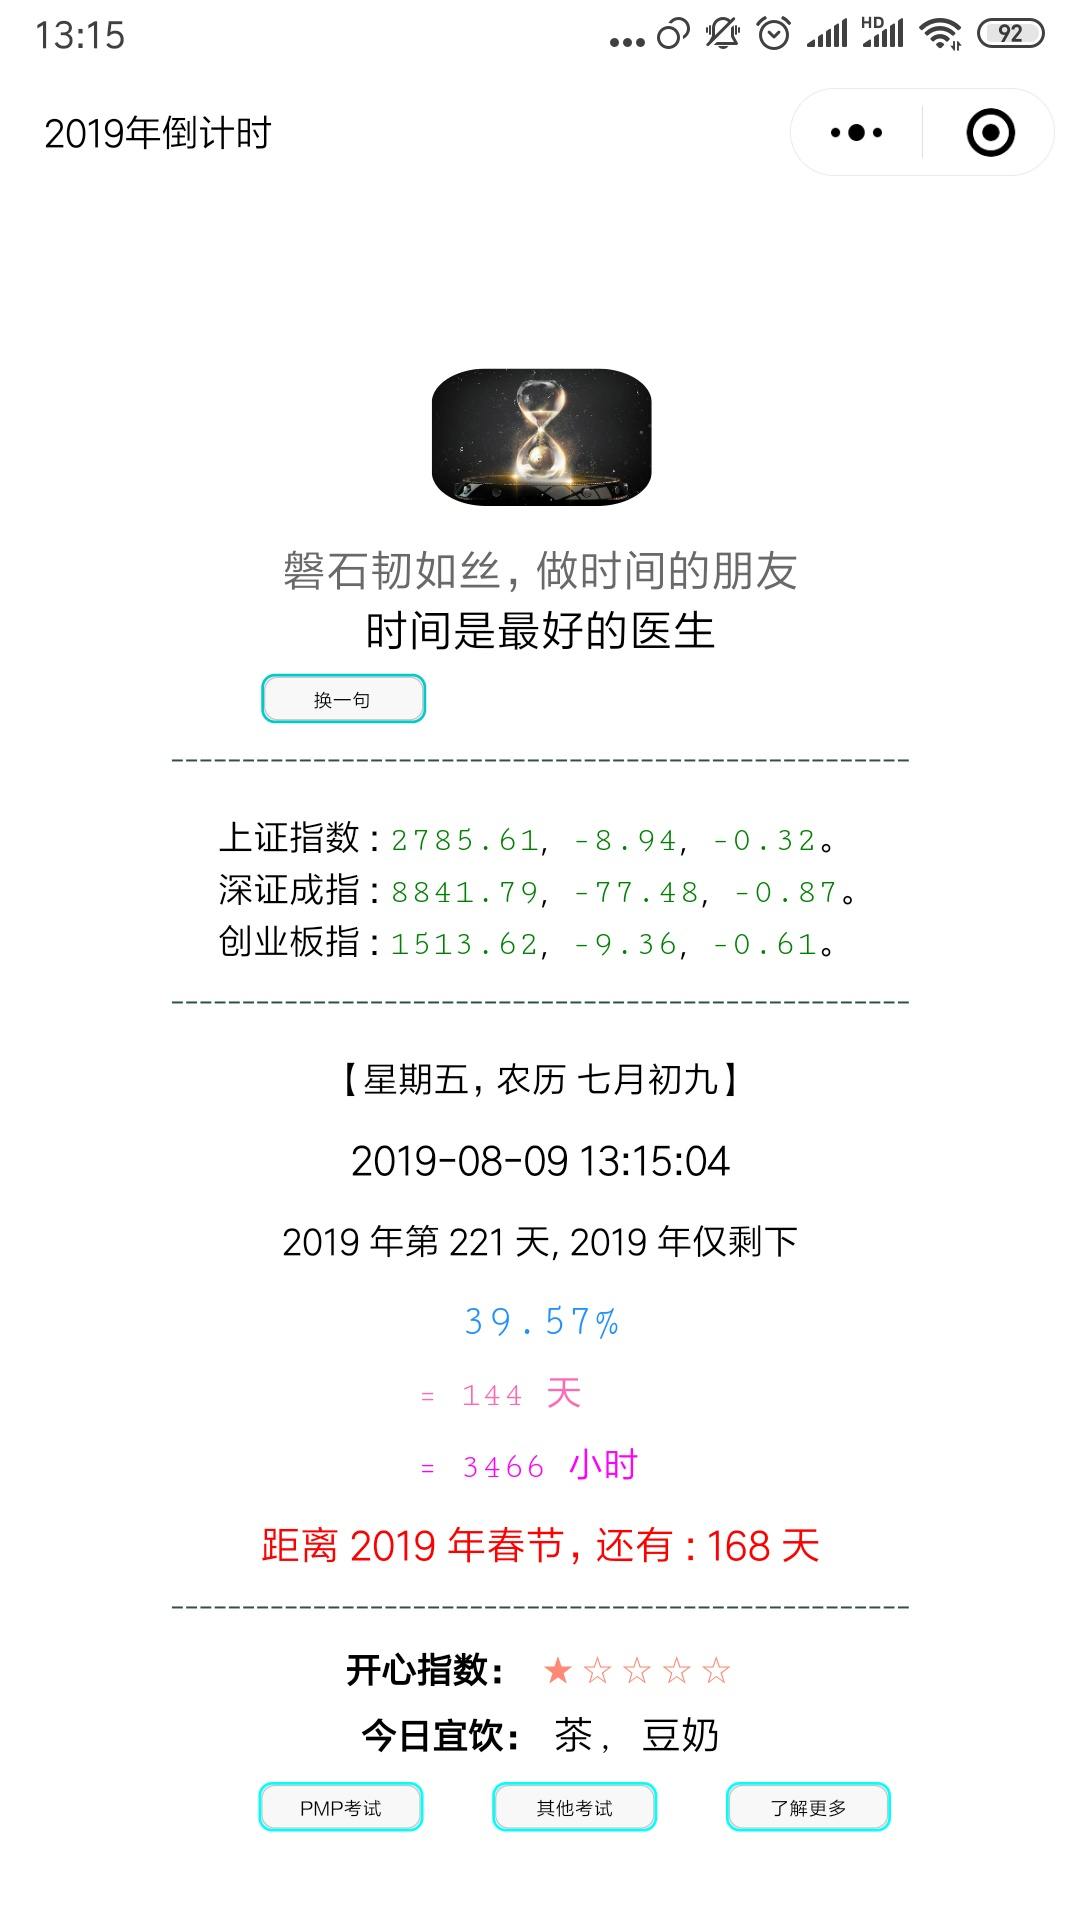
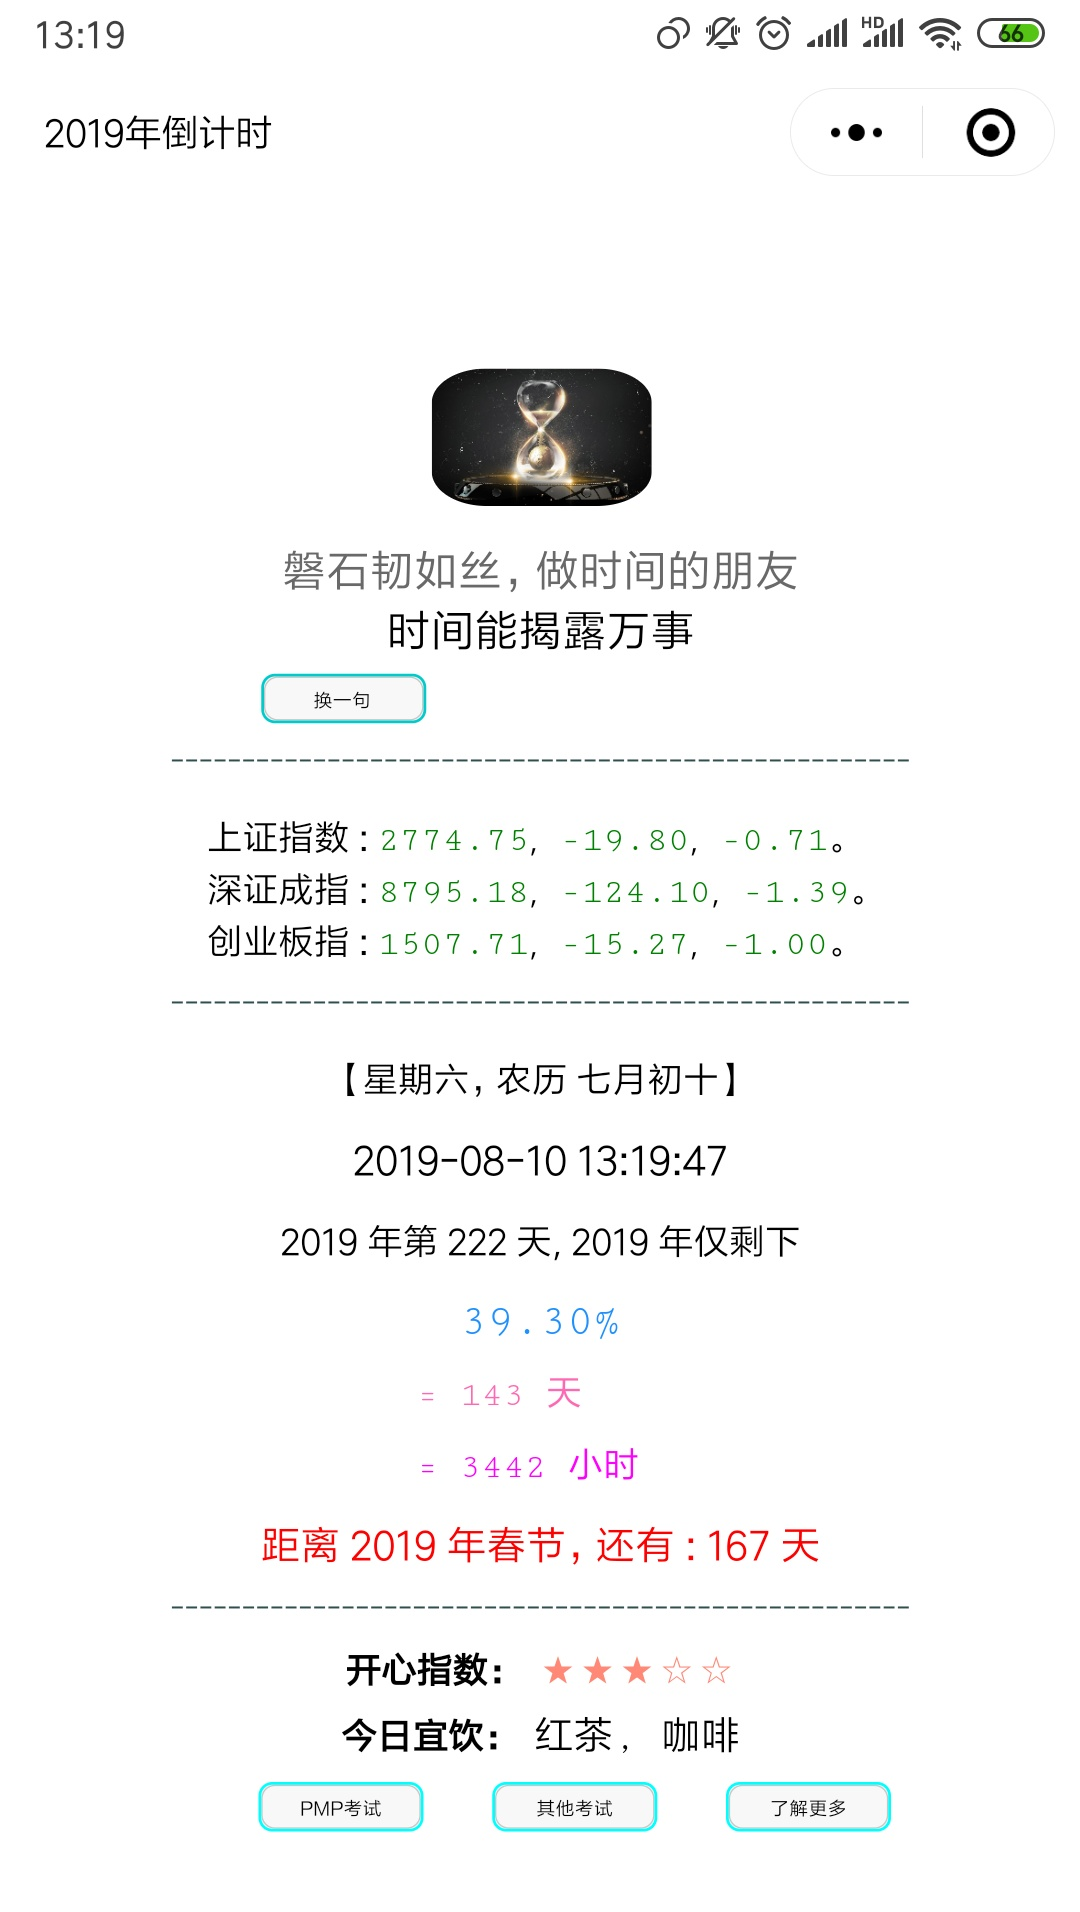
例行更新 20190810

diff --git a/source/_posts/001_2-FD_my_life_records-2019.md b/source/_posts/001_2-FD_my_life_records-2019.md
@@ -1,5 +1,5 @@
 ---
-title: 坚持的力量之数据人生-2019年8月9日
+title: 坚持的力量之数据人生-2019年8月10日
 tags:
   - 数据人生
   - 参考模板
@@ -20,14 +20,14 @@ keywords:
   - 宽978高553
 photos:
   - '/images/001_2/photos.png'
-description: 今天：2019 年 8 月 9 日，2019 年仅剩下 144 天。坚持记录和分析生活中的数据、信息和事件，尊重历史数据、信息和事件，人生将会更美好。
-date: 2019-08-09 00:02:05
+description: 今天：2019 年 8 月 10 日，2019 年仅剩下 143 天。坚持记录和分析生活中的数据、信息和事件，尊重历史数据、信息和事件，人生将会更美好。
+date: 2019-08-10 00:02:05
 ---
 <script type="text/javascript" src="/js/src/bai.js"></script>
 
-### 坚持的力量之数据人生-2019年8月9日
+### 坚持的力量之数据人生-2019年8月10日
 ------
-> 今天：2019 年 8 月 9 日，2019 年仅剩下 144 天。坚持记录和分析生活中的数据、信息和事件，尊重历史数据、信息和事件，人生将会更美好。
+> 今天：2019 年 8 月 10 日，2019 年仅剩下 143 天。坚持记录和分析生活中的数据、信息和事件，尊重历史数据、信息和事件，人生将会更美好。
 >
 > 序言：坚持记录和分析生活中的数据、信息和事件，尊重历史数据、信息和事件，人生将会更美好。
 
@@ -67,11 +67,11 @@ date: 2019-08-09 00:02:05
 
 | 序号 |       名称                                            |  类型  | 开始/结束日期 | 总天数 |          备注                           |
 | :--: | :---------------------------------------------------: | :----: | :-----------: | :----: | :-------------------------------------: |
-|  1   | <font color="#FF0000" size=2>读书荐书第 4/4 更</font> | 倒计时 | 2019/10/01    |  53    | 开始时间：2019/7/1                      |
-|  2   | <font color="#FF0000" size=2>重要节点</font>          | 倒计时 | 2020/03/01    |  208   | 开始时间：2018/6/15 剩余 10 个月        |
-|  3   | <font color="#0000FF" size=2>来上海</font>            | 计时   | 2011/06/25    |  2967  | 第 8 年进行中                           |
-|  4   | <font color="#0000FF" size=2>莫名其妙的计时</font>    | 计时   | 2018/11/12    |  266   | 莫名其妙的计时，希望永远不会停 ！！！   |
-|  5   | <font color="#0000FF" size=2>坚持减肥-3               | 计时   | 2019/08/31    |  10     | 坚持减肥，目标 65 公斤，保持一个月      |
+|  1   | <font color="#FF0000" size=2>读书荐书第 4/4 更</font> | 倒计时 | 2019/10/01    |  52    | 开始时间：2019/7/1                      |
+|  2   | <font color="#FF0000" size=2>重要节点</font>          | 倒计时 | 2020/03/01    |  207   | 开始时间：2018/6/15 剩余 10 个月        |
+|  3   | <font color="#0000FF" size=2>来上海</font>            | 计时   | 2011/06/25    |  2968  | 第 8 年进行中                           |
+|  4   | <font color="#0000FF" size=2>莫名其妙的计时</font>    | 计时   | 2018/11/12    |  267   | 莫名其妙的计时，希望永远不会停 ！！！   |
+|  5   | <font color="#0000FF" size=2>坚持减肥-3               | 计时   | 2019/08/31    |  11     | 坚持减肥，目标 65 公斤，保持一个月      |
 |  6   | <font color="#FF00FF" size=2>博客总计博文</font>      | 计数   | 2018/08/01    |  205   | [博客](/archives) 博文总计数目          |
 |  7   | <font color="#FF00FF" size=2>读书心得札记</font>      | 计数   | 2018/05/26    |  69    | [读书心得笔记并做笔记](/tags/札记人生/) |
 |  8   | <font color="#FF00FF" size=2>五篇好文推荐</font>      | 计数   | 2018/10/24    |  50    | [美文推荐](/tags/美文推荐/)             |
@@ -83,11 +83,11 @@ date: 2019-08-09 00:02:05
 
 | 日期                                   | 记账新增记录 | 记账总记录 | 记账总天数 | 记账时间      | 备注     |
 | :------:                               | :------:     | :------:   | :------:   | :------:      | :------: |
-|<font color="#000000"> 20190804 </font> | 4            | 10575      | 3086       | 8 年零 157 天 | 无       |
-|<font color="#000000"> 20190805 </font> | 2            | 10577      | 3087       | 8 年零 158 天 | 无       |
 |<font color="#000000"> 20190806 </font> | 15           | 10592      | 3088       | 8 年零 159 天 | 无       |
 |<font color="#000000"> 20190807 </font> | 5            | 10597      | 3089       | 8 年零 160 天 | 无       |
-|<font color="#FF0000"> 20190807 </font> | 4            | 10601      | 3090       | 8 年零 161 天 | 无       |
+|<font color="#000000"> 20190808 </font> | 4            | 10601      | 3090       | 8 年零 161 天 | 无       |
+|<font color="#FF0000"> 20190809 </font> | 3            | 10604      | 3091       | 8 年零 162 天 | 无       |
+|<font color="#FF0000"> 20190810 </font> | 4            | 10608      | 3092       | 8 年零 163 天 | 无       |
 
 #### 3. 历史数据汇总
 ##### 3.1 已结束倒计时或计时数据

diff --git a/source/_posts/001_1-FD_2018_year_all_checker-2019.md b/source/_posts/001_1-FD_2018_year_all_checker-2019.md
@@ -1,5 +1,5 @@
 ---
-title: 2019年每日日常综合打卡-2019年8月9日
+title: 2019年每日日常综合打卡-2019年8月10日
 tags:
   - 数据人生
   - 参考模板
@@ -21,14 +21,14 @@ keywords:
   - 宽978高553
 photos:
   - '/images/001_1/photos.png'
-description: 今天：2019 年 8 月 9 日，2019 年仅剩下 144 天。每天坚持打卡，8 月份针对每个任务打卡，慢慢来，一切都会更好的。
-date: 2019-08-09 00:01:01
+description: 今天：2019 年 8 月 10 日，2019 年仅剩下 143 天。每天坚持打卡，8 月份针对每个任务打卡，慢慢来，一切都会更好的。
+date: 2019-08-10 00:01:01
 ---
 <script type="text/javascript" src="/js/src/bai.js"></script>
 
-### 2019年每日日常综合打卡-2019年8月9日
+### 2019年每日日常综合打卡-2019年8月10日
 ---
-> 今天：2019 年 8 月 9 日，2018 年仅剩下 144 天。每日打卡，8 月份针对每个任务打卡，慢慢来，一切都会更好的。
+> 今天：2019 年 8 月 10 日，2018 年仅剩下 143 天。每日打卡，8 月份针对每个任务打卡，慢慢来，一切都会更好的。
 ---
 
 #### 2019 年年历
@@ -60,7 +60,7 @@ date: 2019-08-09 00:01:01
 |  7 |一 ⭕  |四 ⭕  |四 ⭕  |日 ⭕  |二 ⭕  |五 ⭕  |日 ⭕  |三 ⭕  |六     |一     |四     |六     |
 |  8 |二 ⭕  |五 ⭕  |五 ⭕  |一 ⭕  |三 ⭕  |六 ⭕  |一 ⭕  |四 ⭕  |日     |二     |五     |日     |
 |  9 |三 ⭕  |六 ⭕  |六 ⭕  |二 ⭕  |四 ⭕  |日 ⭕  |二 ⭕  |五 ⭕  |一     |三     |六     |一     |
-| 10 |四 ⭕  |日 ⭕  |日 ⭕  |三 ⭕  |五 ⭕  |一 ⭕  |三 ⭕  |六     |二     |四     |日     |二     |
+| 10 |四 ⭕  |日 ⭕  |日 ⭕  |三 ⭕  |五 ⭕  |一 ⭕  |三 ⭕  |六 ⭕  |二     |四     |日     |二     |
 | 11 |五 ⭕  |一 ⭕  |一 ⭕  |四 ⭕  |六 ⭕  |二 ⭕  |四 ⭕  |日     |三     |五     |一     |三     |
 | 12 |六 ⭕  |二 ⭕  |二 ⭕  |五 ⭕  |日 ⭕  |三 ⭕  |五 ⭕  |一     |四     |六     |二     |四     |
 | 13 |日 ⭕  |三 ⭕  |三 ⭕  |六 ⭕  |一 ⭕  |四 ⭕  |六 ⭕  |二     |五     |日     |三     |五     |
@@ -98,7 +98,7 @@ date: 2019-08-09 00:01:01
 |  7 <font color="#000000">三</font> | ⭕        | ⭕        | ⭕        | ⭕        | ❌         | ⭕        |           |
 |  8 <font color="#000000">四</font> | ⭕        | ⭕        | ❌         | ⭕        | ⭕        | ⭕        |           |
 |  9 <font color="#000000">五</font> | ⭕        | ⭕        | ⭕        | ⭕        | ⭕        | ⭕        |           |
-| 10 <font color="#FF0000">六</font> |           |           |           |           |           |           |           |
+| 10 <font color="#FF0000">六</font> | ⭕        | ⭕        | ⭕        | ⭕        | ❌         | ⭕        |           |
 | 11 <font color="#FF0000">日</font> |           |           |           |           |           |           |           |
 | 12 <font color="#000000">一</font> |           |           |           |           |           |           |           |
 | 13 <font color="#000000">二</font> |           |           |           |           |           |           |           |
